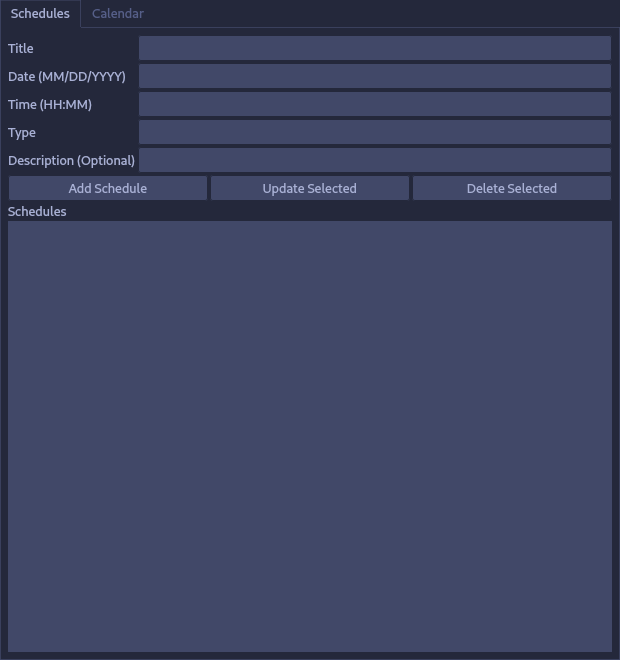
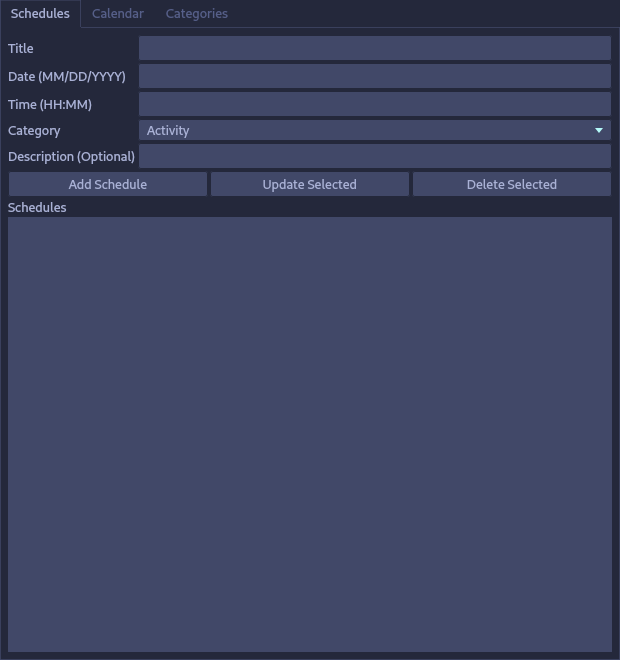
Update README for Categories feature and regenerate screenshots

Changed region(s): [[0.0, 0.1818, 0.9806, 0.3333], [0.2758, 0.0, 0.3677, 0.0303]]

diff --git a/README.md b/README.md
@@ -300,12 +300,17 @@ sqlite3 data/schedule.db ".tables"
 
 6. **See the calendar.** Click the **Calendar** tab.
    - Each date with a schedule is **color-coded by category** (see the legend at the bottom).
-   - Dates with more than one schedule are **grey**, and hovering shows how many and which types.
+   - Dates with more than one schedule are **grey**, and hovering shows how many and which categories.
    - Click any date to list that day's schedules below, sorted by time.
    - Use the arrows to move between months.
    - Changes made on the **Schedules** tab appear here automatically when you switch to this tab.
 
-7. **Quit.** Close the window. Data is already saved.
+7. **Manage categories.** Click the **Categories** tab.
+   - Type a name (e.g., `Final Exam`) and click **Add Category**.
+   - Select one and click **Update Selected** to rename it, or **Delete Selected** to remove it.
+   - Categories you add appear in the **Category** dropdown on the Schedules tab.
+
+8. **Quit.** Close the window. Data is already saved.
 
 ### Tips
 
